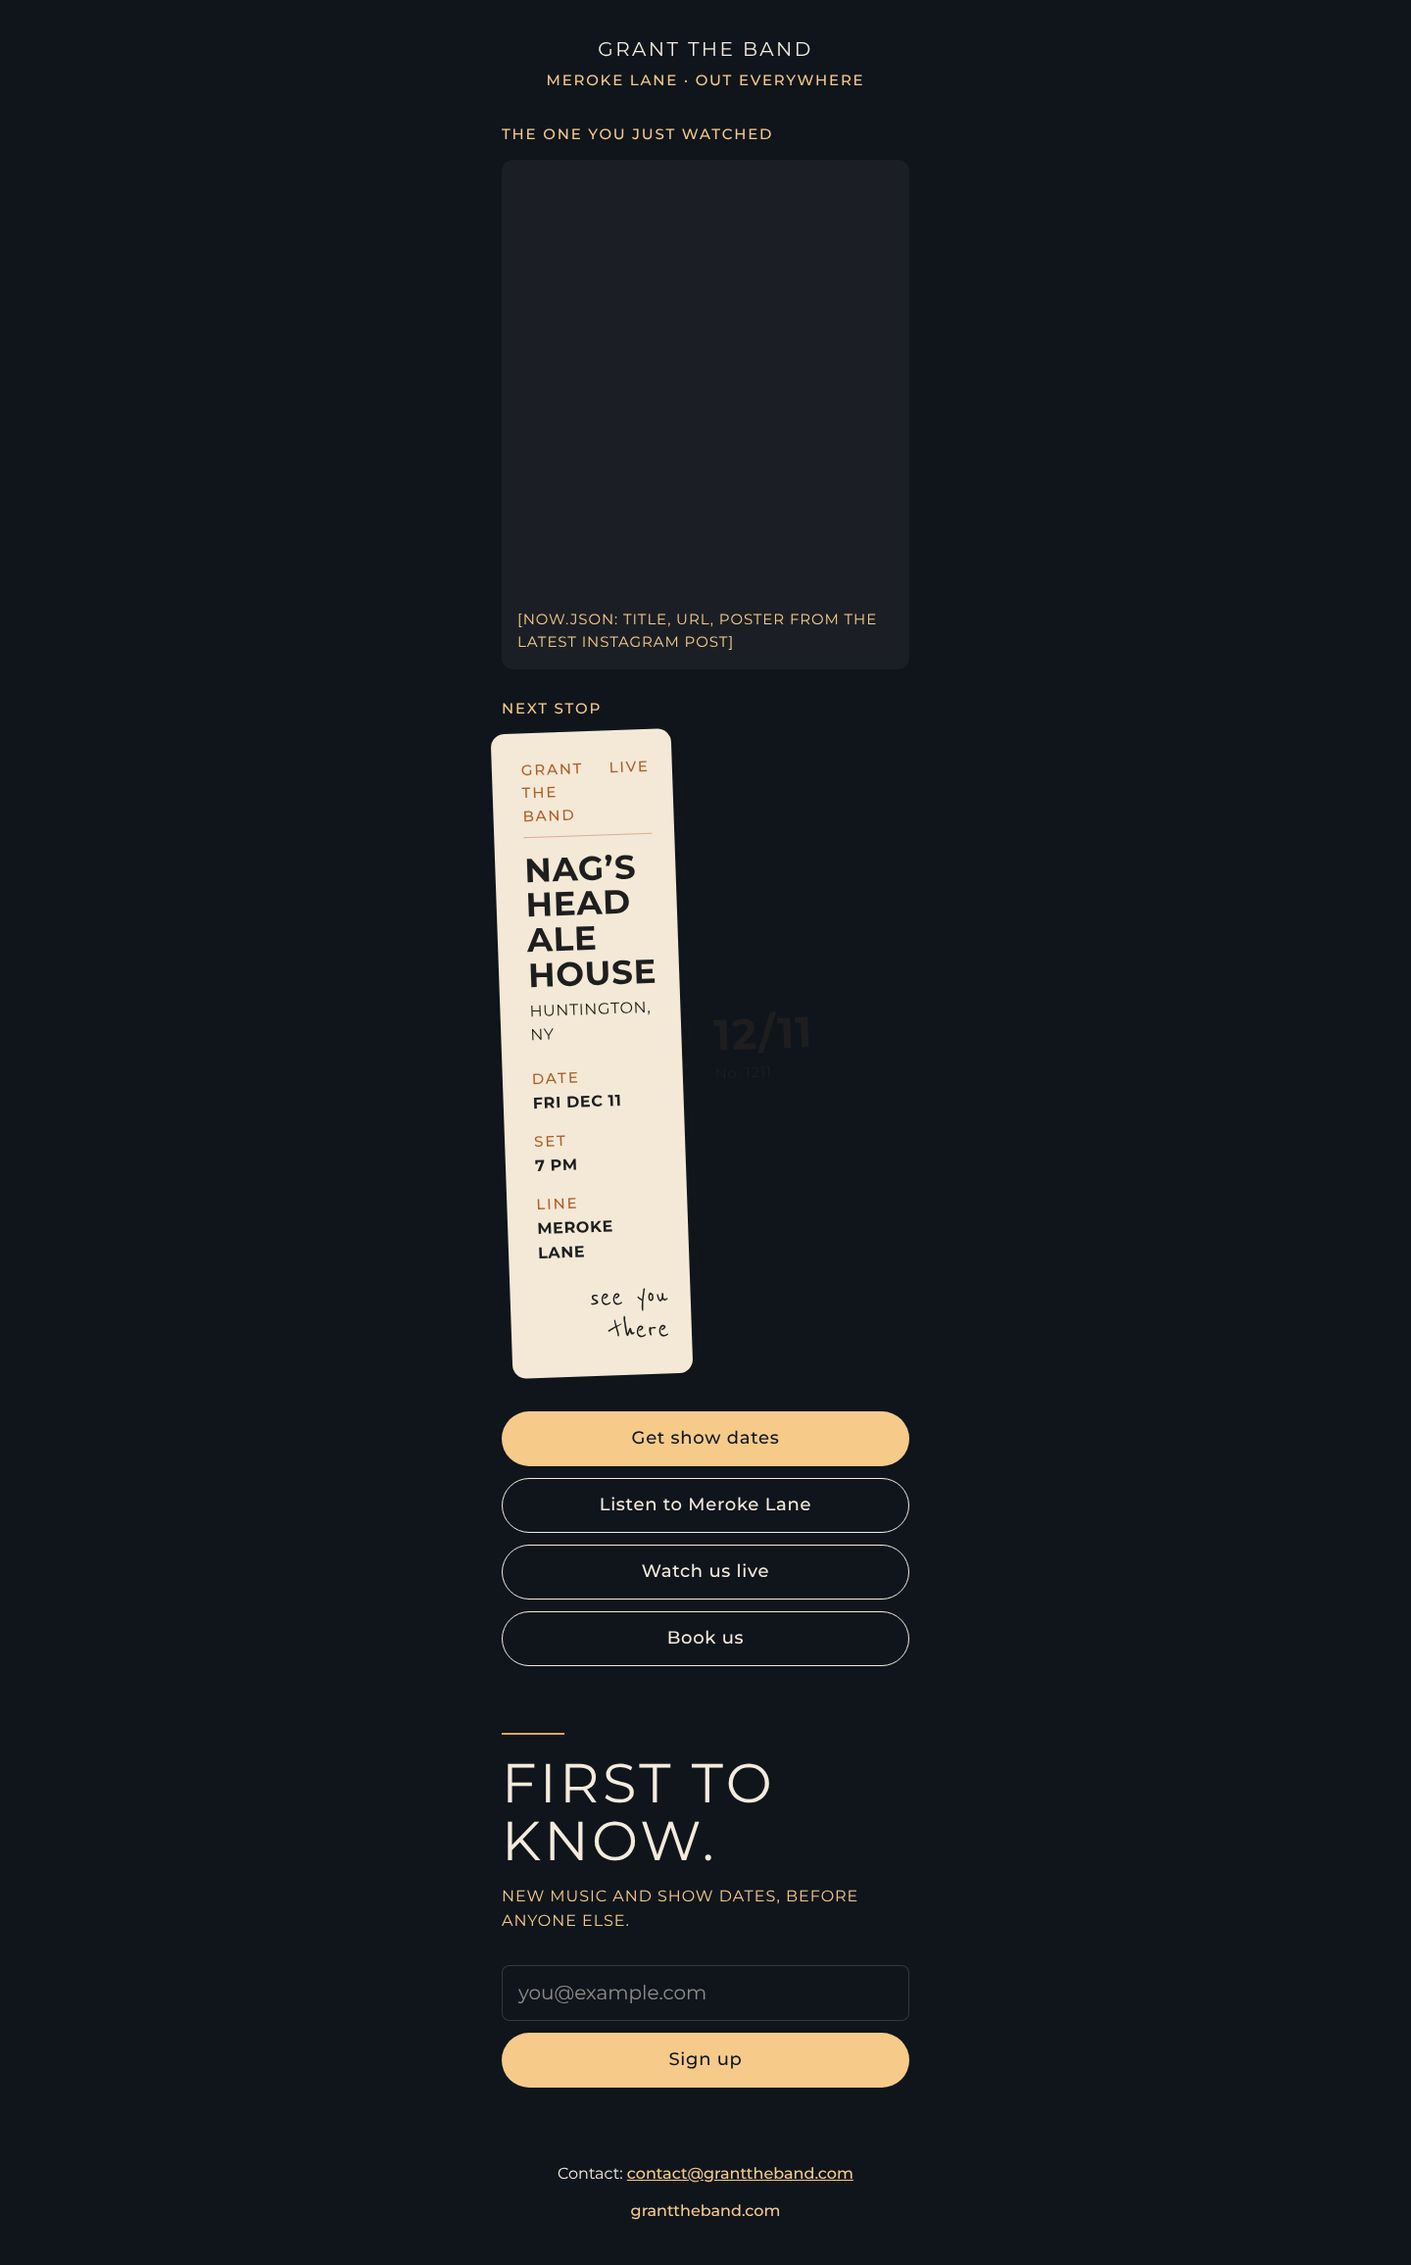
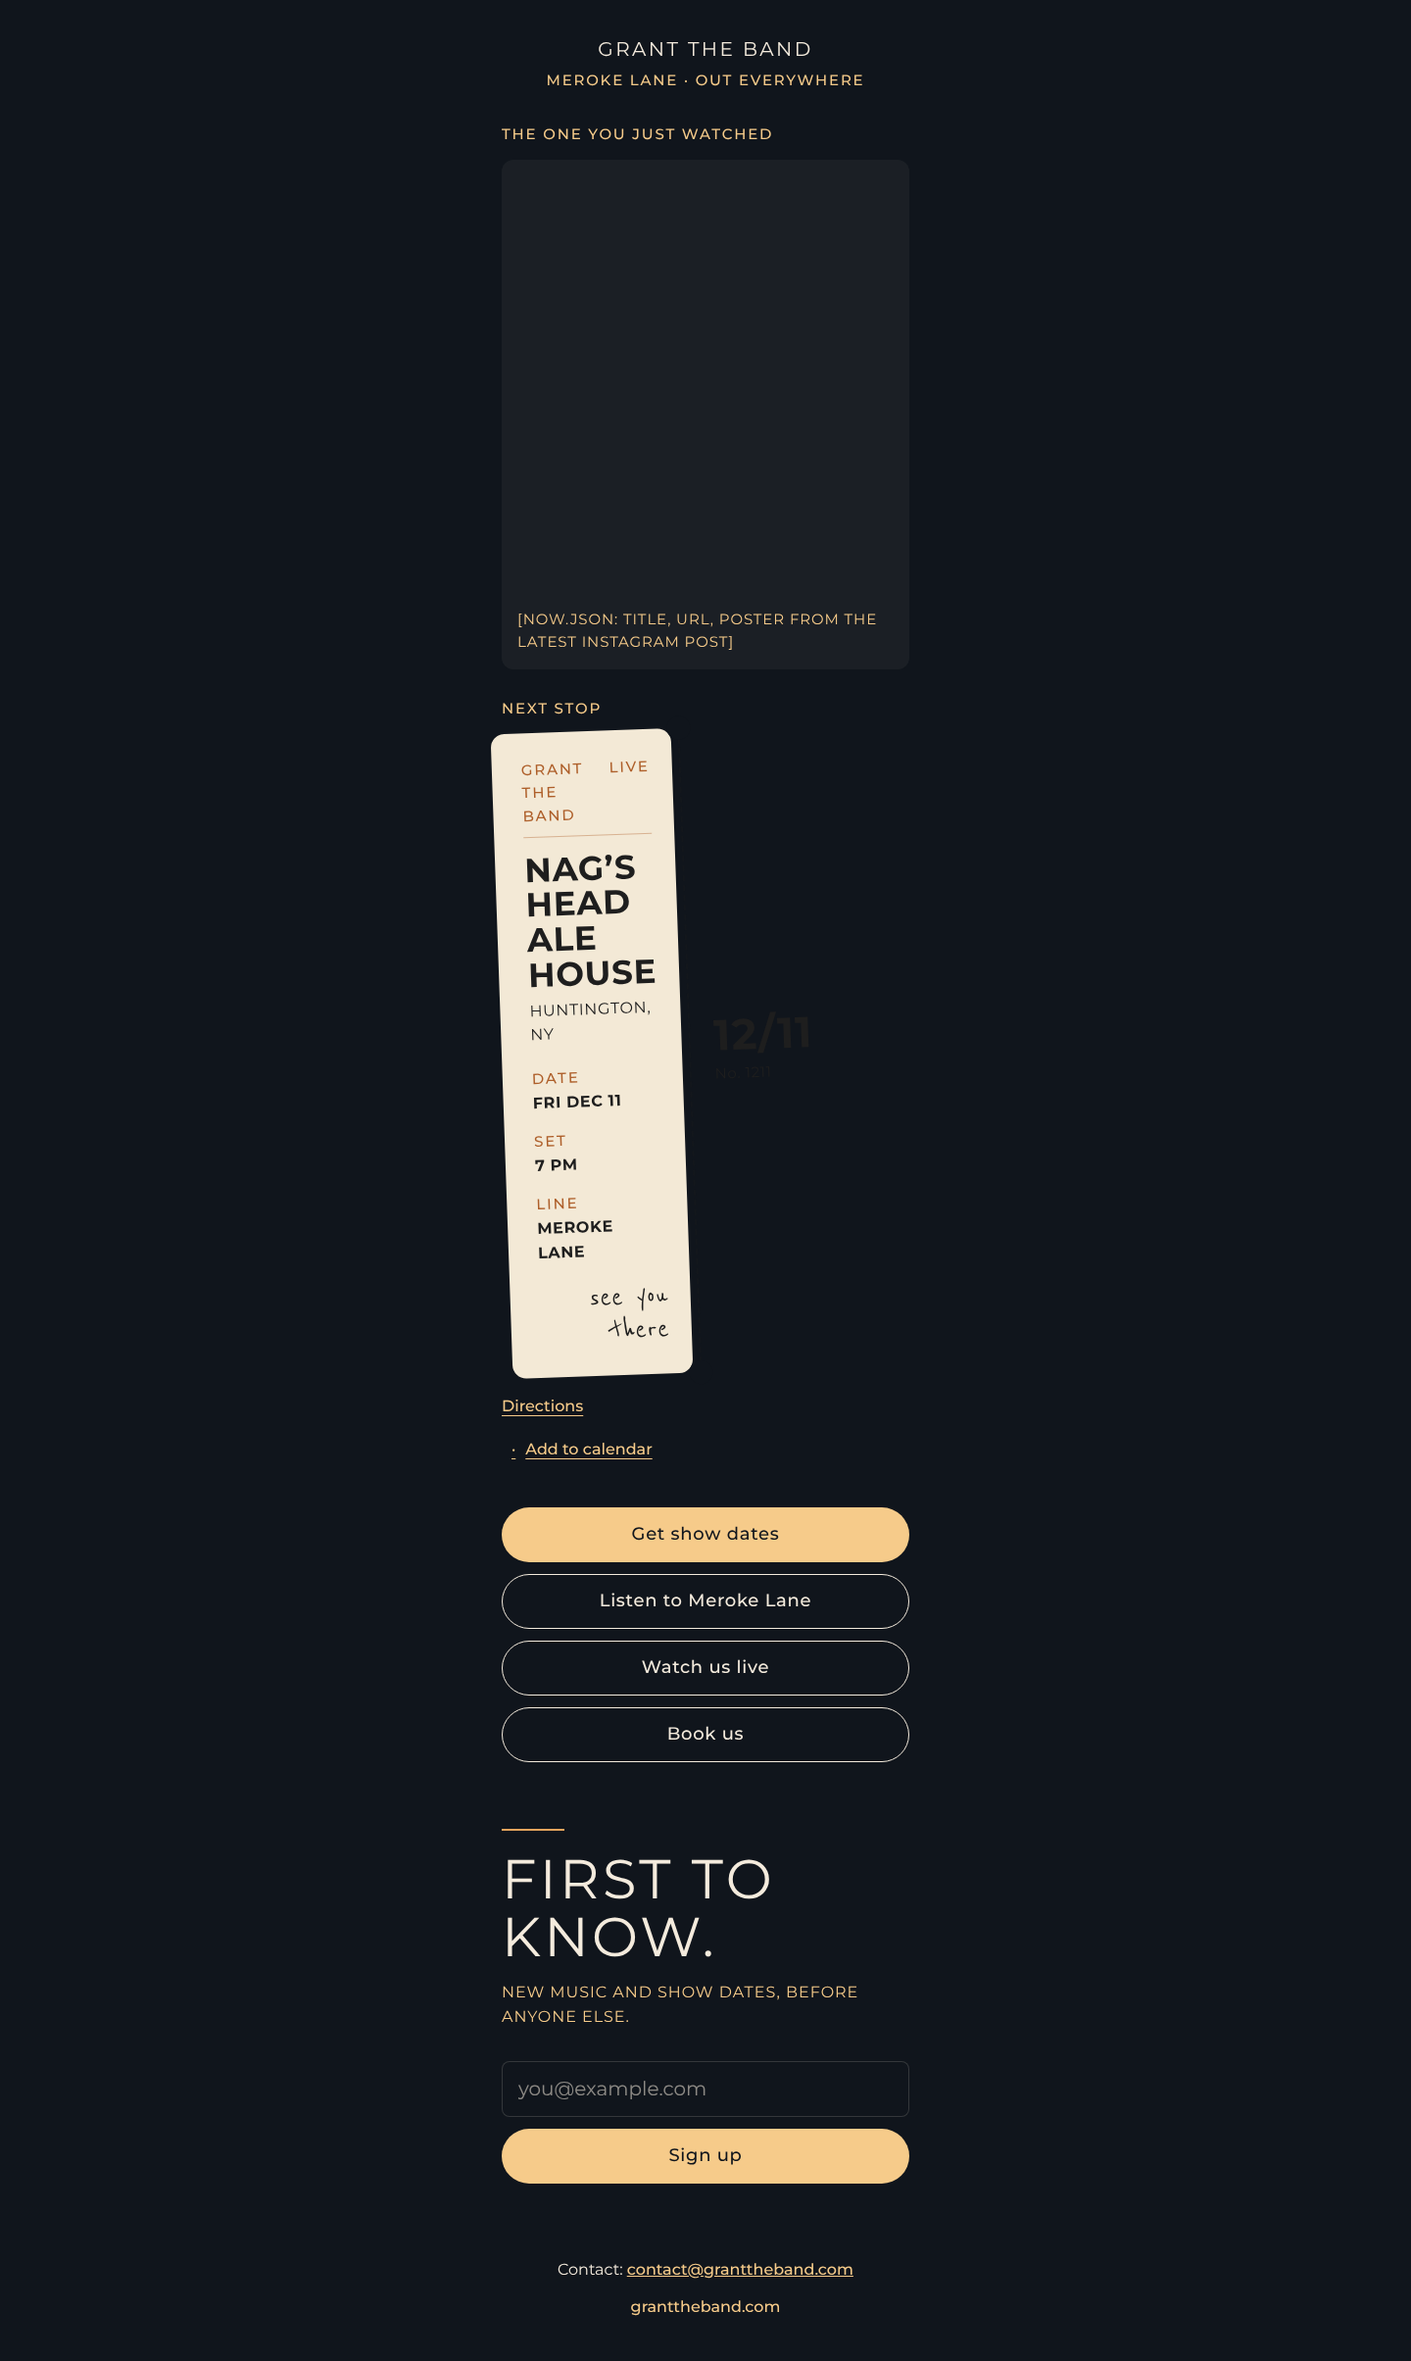
Review round 1: ticket Directions + calendar, event address/image, phone hero, /book order, small fixes
- Directions (Google Maps) and Add to calendar (.ics per show) under every ticket
- shows.json address; MusicEvent streetAddress and image
- Phone hero: no Listen, Shows is the gold button; desktop unchanged
- /book: Watch first > Played + Press > Formats > Press kit > Contact; Next stop line; optional Phone field
- /now hidden H1; hero video skips Save-Data / reduced-data; back to top avoids ticket links

Claude-Session: https://claude.ai/code/session_01W6jjmem6fid2ThtCrqmyVk

Changed region(s): [[0.3438, 0.2492, 0.6562, 0.7477], [0.3438, 0.7789, 0.6562, 0.9658], [0.375, 0.0312, 0.5625, 0.0623]]

diff --git a/src/lib/shows.ts b/src/lib/shows.ts
@@ -5,6 +5,7 @@ export type Show = {
   time: string; // HH:MM, 24h
   venue: string;
   town: string; // "Amagansett, NY"
+  address?: string; // street address, "396 New York Ave"
   url: string;
   endTime?: string; // HH:MM, 24h, optional
   sample?: boolean; // deploy-preview sample: date unknown, never on production
@@ -80,6 +81,58 @@ export function formatSet(show: Show): string {
   return `${sameHalf ? start.slice(0, -3) : start} - ${end}`;
 }
 
+// URL-safe id for a show: "2026-12-11-nags-head-ale-house".
+export function showSlug(show: Show): string {
+  const name = show.venue
+    .normalize('NFKD')
+    .toLowerCase()
+    .replace(/[’']/g, '')
+    .replace(/[^a-z0-9]+/g, '-')
+    .replace(/^-|-$/g, '');
+  return `${show.date}-${name}`;
+}
+
+const placeLine = (show: Show) => [show.venue, show.address, show.town].filter(Boolean).join(', ');
+
+// Google Maps search for the venue and its street address.
+export function directionsUrl(show: Show): string {
+  return `https://www.google.com/maps/search/?api=1&query=${encodeURIComponent(placeLine(show))}`;
+}
+
+// The show's calendar file, built by src/pages/calendar/[slug].ics.ts.
+export function calendarPath(show: Show): string {
+  return `/calendar/${showSlug(show)}.ics`;
+}
+
+const SET_HOURS = 3;
+
+// One VEVENT, 3 hours from the set time (or 8pm if no time), times in UTC.
+export function calendarIcs(show: Show, siteUrl: string, now = new Date()): string {
+  const time = show.time || '20:00';
+  const start = new Date(`${show.date}T${time}:00${nyOffset(show.date, time)}`);
+  const end = new Date(start.getTime() + SET_HOURS * 3600 * 1000);
+  const stamp = (d: Date) => d.toISOString().replace(/[-:]/g, '').replace(/\.\d{3}/, '');
+  const text = (s: string) => s.replace(/\\/g, '\\\\').replace(/([,;])/g, '\\$1').replace(/\n/g, '\\n');
+  return [
+    'BEGIN:VCALENDAR',
+    'VERSION:2.0',
+    'PRODID:-//GRANT the band//granttheband.com//EN',
+    'CALSCALE:GREGORIAN',
+    'METHOD:PUBLISH',
+    'BEGIN:VEVENT',
+    `UID:${showSlug(show)}@granttheband.com`,
+    `DTSTAMP:${stamp(now)}`,
+    `DTSTART:${stamp(start)}`,
+    `DTEND:${stamp(end)}`,
+    `SUMMARY:${text(`GRANT the band at ${show.venue}`)}`,
+    `LOCATION:${text(placeLine(show))}`,
+    `URL:${siteUrl}/shows`,
+    'END:VEVENT',
+    'END:VCALENDAR',
+    '',
+  ].join('\r\n');
+}
+
 // Real shows only: samples have no date and must never reach search engines.
 export function showsJsonLd(shows: Show[], siteUrl: string) {
   return shows.filter((s) => !s.sample).map((s) => musicEventJsonLd(s, siteUrl));
@@ -99,11 +152,13 @@ export function musicEventJsonLd(show: Show, siteUrl: string) {
       name: show.venue,
       address: {
         '@type': 'PostalAddress',
+        ...(show.address ? { streetAddress: show.address } : {}),
         addressLocality: locality,
         ...(region ? { addressRegion: region } : {}),
         addressCountry: 'US',
       },
     },
+    image: [`${siteUrl}/og/home.png`],
     performer: { '@type': 'MusicGroup', name: 'GRANT the band', url: siteUrl },
     url: show.url || `${siteUrl}/shows`,
   };

diff --git a/src/pages/calendar/[slug].ics.ts b/src/pages/calendar/[slug].ics.ts
@@ -1,0 +1,14 @@
+// One calendar file per upcoming show: /calendar/<date>-<venue>.ics ("Add to calendar").
+import type { APIRoute, GetStaticPaths } from 'astro';
+import { SITE_URL } from '../../data/site';
+import { upcomingShows, showSlug, calendarIcs, type Show } from '../../lib/shows';
+
+export const getStaticPaths: GetStaticPaths = () =>
+  upcomingShows()
+    .filter((show) => !show.sample)
+    .map((show) => ({ params: { slug: showSlug(show) }, props: { show } }));
+
+export const GET: APIRoute = ({ props }) =>
+  new Response(calendarIcs((props as { show: Show }).show, SITE_URL), {
+    headers: { 'Content-Type': 'text/calendar; charset=utf-8' },
+  });

diff --git a/CLAUDE.md b/CLAUDE.md
@@ -40,14 +40,16 @@ Conversions, in priority order:
 
 ```json
 [
-  { "date": "2026-12-05", "time": "20:00", "venue": "The Stephen Talkhouse", "town": "Amagansett, NY", "url": "" }
+  { "date": "2026-12-05", "time": "20:00", "venue": "The Stephen Talkhouse", "address": "161 Main St", "town": "Amagansett, NY", "url": "" }
 ]
 ```
 
 - Upcoming shows only (date >= build date), sorted ascending, on `/shows` and home.
 - Home shows section renders ONLY when there are upcoming dates. When empty, omit it entirely.
 - `/shows` with no upcoming dates: "No dates announced." plus an inline email signup "Get them first."
-- Generate schema.org `MusicEvent` JSON-LD for each upcoming show (home when shown, and `/shows`).
+- `address` is the street address (optional). Nag’s Head Ale House is "396 New York Ave" (Noah to confirm).
+- Generate schema.org `MusicEvent` JSON-LD for each upcoming show (home when shown, and `/shows`), with `streetAddress` (when set) and `image` (`og/home.png`).
+- Under every ticket (/, /shows, /now): small gold text links "Directions" (Google Maps search for venue + address + town, new tab) and "Add to calendar" (`/calendar/<date>-<venue>.ics`, built per upcoming show by `src/pages/calendar/[slug].ics.ts`: title "GRANT the band at <venue>", start = date/time, 3h, location = venue + address + town; served as `text/calendar` via `netlify.toml`). "Details" joins them only when `url` is set. No price or door info. Preview sample tickets get no links.
 - `/now` shows the next show in a single row, or hides the row if none.
 
 `src/data/now.json` holds the /now top card: `{ "title": "", "url": "", "poster": "" }`. Updated weekly to match the latest Instagram post.
@@ -135,7 +137,7 @@ Shows (`/shows`), Music (`/#music`), Video (`/#video`), Newsletter (the signup o
 
 ## Back to top (all pages)
 
-`BackToTop.astro`, included in `Base.astro`: a 56px round button fixed bottom-right (night fill, 1px cream outline) with only a cream up-chevron (18px stroke icon) centered in it, `aria-label="Back to top"`. No monogram on it: the GTB monogram lives in the footer only (where it also links to the top). The button fades in only after the hero has scrolled away (on pages without a hero, the first screen) and fades out whenever a ticket, a signup form or a footer (the site footer or /now's) passes through the bottom strip of the screen where it sits, so it never covers them. Both links scroll to the top smoothly (instantly for reduced motion) without adding `#top` to the URL, and move keyboard focus to the page's H1. Without JS the button stays hidden and the footer monogram jumps to `#top` (the `<body>` id).
+`BackToTop.astro`, included in `Base.astro`: a 56px round button fixed bottom-right (night fill, 1px cream outline) with only a cream up-chevron (18px stroke icon) centered in it, `aria-label="Back to top"`. No monogram on it: the GTB monogram lives in the footer only (where it also links to the top). The button fades in only after the hero has scrolled away (on pages without a hero, the first screen) and fades out whenever a ticket (with its links), a signup form or a footer (the site footer or /now's) passes through the bottom strip of the screen where it sits, so it never covers them. Both links scroll to the top smoothly (instantly for reduced motion) without adding `#top` to the URL, and move keyboard focus to the page's H1. Without JS the button stays hidden and the footer monogram jumps to `#top` (the `<body>` id).
 
 ## Home sections and copy
 
@@ -147,7 +149,8 @@ Use this copy as written. Typographic apostrophes and quotes. Never use em dashe
    - Phones: the content block is anchored to the bottom, left-aligned, logo just above the buttons. On tall phones (9:16 or narrower) the media layer is lifted 10% (ceiling only) so the jump clears the text.
    - The logo is the H1.
    - Below: gold label "MEROKE LANE", then "OUT EVERYWHERE".
-   - Buttons: "Listen" (to Meroke Lane on Spotify) and "Shows" (to `/shows`), under the label.
+   - Buttons: "Listen" (to Meroke Lane on Spotify) and "Shows" (to `/shows`), under the label. Phones (<900px): no Listen in the hero; "Shows" is the one primary (gold) button. Desktop keeps Listen + Shows.
+   - The loop downloads one file only: `hero-phone.mp4` on portrait screens, `hero-desktop.mp4` otherwise. Reduced motion, Save-Data and `prefers-reduced-data` get the poster and no video.
    - Song button: its own row under Listen / Shows (a 44px pill, 16px label, cream outline on a translucent night fill; lighter than the page buttons), reading ▶ Play “Man on a Train” (the ▶ is an inline SVG, not an emoji). On tap it plays `public/audio/hero-song.mp3` (`preload="none"`: nothing is fetched until the tap) over the muted loop, which keeps playing. While it plays the button reads "Pause". When the excerpt ends it becomes a link, "Hear the full song on Spotify", to the track (`links.manOnATrainSpotify`, https://open.spotify.com/track/3Qhvz4YM1P0mKKuur6SoIG), opening in a new tab.
    - The song button renders only once `hero-song.mp3` exists. Until then previews show a placeholder and production shows nothing. No video swap: the hero never replaces the loop.
    - Short phones (max-height 720px) get tighter vertical spacing in the hero text so the extra row doesn't push the wordmark into the jump.
@@ -173,9 +176,11 @@ Not on home: venue list, press quote, booking teaser. Those live on `/book`.
 
 ## /book copy
 
+- Section order: top photo + intro > Watch first > Played + Press > Formats + Tech at a glance > Press kit > Contact.
 - H1: "BOOKING."
 - Full-bleed photo directly under the header: `89north-full-band.jpg`, 50vh phone / 60vh desktop, object-fit cover.
 - "Indie rock with a horn section from Long Island. Originals plus the covers people came for. Two summers as the residency band at Cooper Bluff." (The full venue list lives in Played.)
+- When a real show is coming up, one gold line under the intro links to /shows: "Next stop: <Fri Dec 11>, <venue>".
 - Formats, each with one line under it:
   - Full band with horns: "6-piece with horns. Built for clubs, residencies and outdoor nights."
   - Trio: "Acoustic. Built for private events and acoustic shows."
@@ -188,15 +193,15 @@ Not on home: venue list, press quote, booking teaser. Those live on `/book`.
   1. “Everyone is executing their instrument… top shelf.” Phillip Torvik, producer, reviewing “Man on a Train” on TikTok ("on TikTok" is plain text, no link, by Noah's call).
   2. “High-energy live performances with emotionally charged songwriting.” Rolling Hype, February 2025 · Read the feature (links to https://rollinghype.com/grant-the-band-the-energy-the-originals-and-the-covers-you-cant-miss/, new tab, rel="noopener").
 - Stage plot: "Download stage plot (PDF)" under Tech at a glance, linking `/press/grant-the-band-stage-plot.pdf`. Renders only if that file exists.
-- "Press kit" block under Press: "Our EPK, plus photos and logos for your flyers and socials.", primary button "Download EPK (PDF)" (`/press/grant-the-band-epk.pdf`, the 2-page EPK), then a secondary text link "Full press kit (photos, logos, stage plot)" (`/press/grant-the-band-press-kit.zip`). Each renders only if its file exists.
+- "Press kit" section (its own section, after Formats): "Our EPK, plus photos and logos for your flyers and socials.", primary button "Download EPK (PDF)" (`/press/grant-the-band-epk.pdf`, the 2-page EPK), then a secondary text link "Full press kit (photos, logos, stage plot)" (`/press/grant-the-band-press-kit.zip`). Each renders only if its file exists.
 - `scripts/make_press_kit.py` (Noah's) is the only way the EPK and press kit get built. Run it from the repo root (`pip install reportlab qrcode pillow`, then `python3 scripts/make_press_kit.py`; it downloads Montserrat and Reenie Beanie from raw.githubusercontent.com). It writes `public/press/grant-the-band-epk.pdf` (2 pages) and `public/press/grant-the-band-press-kit.zip`, which unzips to `GRANT-the-band-Press-Kit/` with the EPK, the stage plot, Photos/, Logos/ (monogram, light and dark wordmarks), Music/ (EP cover) and Bio.txt. Commit both outputs. Rerun it whenever venues, photos, press, formats or the tracklist change: its copy lives in the script, not in `site.ts`. `npm run build` never runs it. The stage plot PDF is Noah's file, used as-is.
-- Contact: "Email contact@granttheband.com with the date, the room and your budget. We answer within a day." Plus a Netlify form, fields in this order: name, email, date, venue or event type (placeholder "Club, private event, wedding, festival"), budget, message. Honeypot field is visually hidden and aria-hidden.
+- Contact: "Email contact@granttheband.com with the date, the room and your budget. We answer within a day." Plus a Netlify form, fields in this order: name, email, phone (optional, `type="tel"`), date, venue or event type (placeholder "Club, private event, wedding, festival"), budget, message. Honeypot field is visually hidden and aria-hidden.
 - No fan signup block on /book. The page is for buyers only.
 - Do not add a band member photo grid. The lineup rotates.
 
 ## /now
 
-Single phone-width column: wordmark, gold label "MEROKE LANE · OUT EVERYWHERE", top card from now.json ("The one you just watched"; omitted on production while now.json is empty), next show row, buttons "Get show dates" (primary), "Listen to Meroke Lane" (Spotify EP), "Watch us live", "Book us". Footer "Contact: contact@granttheband.com" and "granttheband.com". Meta description: "GRANT the band. The latest clip, the next show, and where to listen." No "Long Island" and no "Better in the room" on /now. Add UTM params to outbound links (utm_source=instagram&utm_medium=bio).
+Single phone-width column: a visually hidden `<h1>GRANT the band</h1>`, wordmark, gold label "MEROKE LANE · OUT EVERYWHERE", top card from now.json ("The one you just watched"; omitted on production while now.json is empty), next show row, buttons "Get show dates" (primary), "Listen to Meroke Lane" (Spotify EP), "Watch us live", "Book us". Footer "Contact: contact@granttheband.com" and "granttheband.com". Meta description: "GRANT the band. The latest clip, the next show, and where to listen." No "Long Island" and no "Better in the room" on /now. Add UTM params to outbound links (utm_source=instagram&utm_medium=bio).
 
 ## Links
 
